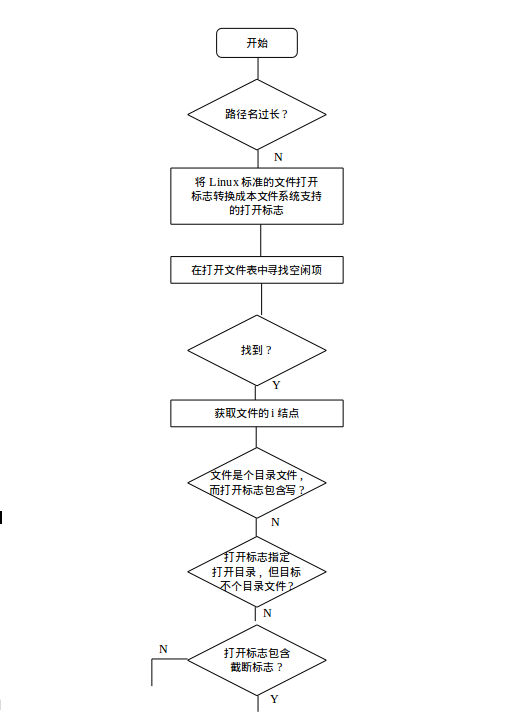
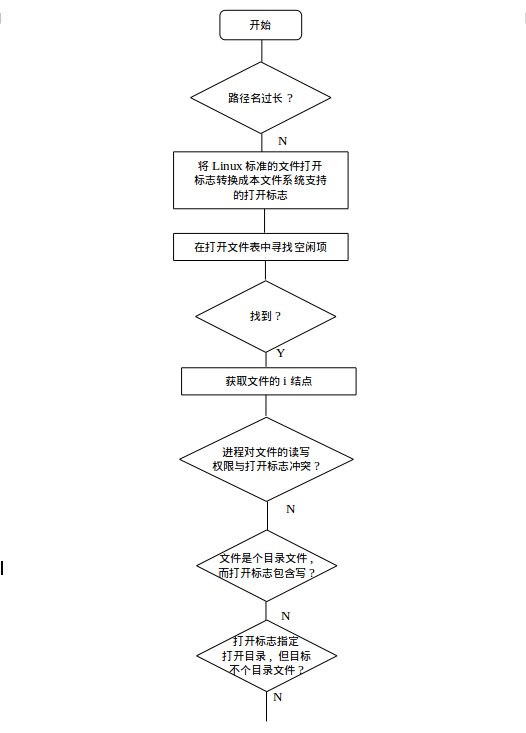
根据到目前为止所作出的修改, 更新文档.
更新的地方主要包括:
	文件名最大长度的值;
	read() 的函数流程;
	open() 的函数流程与流程图;

diff --git a/src/fs_based_on_fuse.tex b/src/fs_based_on_fuse.tex
@@ -549,8 +549,9 @@ mount -t fusectl none /sys/fs/fuse/connections
 
 \begin{verbatim}
 #define UFS_MAGIC           0x7594  /* 文件系统的标识 */
-#define UFS_NAME_LEN        27      /* 文件名的最大长度, 不包括结尾的空字符 */
-#define UFS_PATH_LEN        1024    /* 路径名最大长度, 不包括结尾的空字符 */
+      /* 文件名的最大长度, 不包括结尾的空字符 */
+#define UFS_NAME_LEN        (64 - sizeof(unsigned int) - 1)
+#define UFS_PATH_LEN        1024   /* 路径名最大长度, 不包括结尾的空字符 */
 #define UFS_BLK_SIZE        512     /* 磁盘块大小 */
 #define UFS_OPEN_MAX        64      /* 同时打开文件数最大值 */
 #define UFS_DISK_MAX_SIZE   32      /* 磁盘文件最大值 (MB) */
@@ -2070,7 +2071,7 @@ struct ufs_file ufs_open_files[UFS_OPEN_MAX]; /* 打开文件表 */
     \texttt{-ENAMETOOLONG}: \texttt{path} 长度大于最大路径名长度;
   \item
     \texttt{-EACCES}: 对文件的打开请求不被允许 (例如打开标志指定了
-    \texttt{UFS\_O\_RDWR}, 但文件不可写), 或路径中的某目录 无搜索权限;
+    \texttt{O\_RDWR}, 但文件不可写), 或进程对路径中的某目录无搜索权限;
   \item
     \texttt{-EISDIR}: \texttt{path} 引用的是目录, 而打开标志包含写;
   \item
@@ -2100,15 +2101,19 @@ struct ufs_file ufs_open_files[UFS_OPEN_MAX]; /* 打开文件表 */
   \item
     调用 \texttt{ufs\_path2i(path, inode)}, 获取文件的 i 结点号,
     若函数出错, 原样返回错误值;
+  \item 
+      获取进程对该文件的读写权限, 并与打开标志 \texttt{flag} 作比较,
+      如果互相冲突 (例如进程对文件只可读, 但打开标志包含写), 则返回 
+      \verb'-EACCES';
   \item
-    若 \texttt{flag} 包含写操作 (\texttt{UFS\_O\_WRONLY},
-    \texttt{UFS\_O\_RDWR} 等), 而 \texttt{path} 是一个目录文件, 返回
+    若打开标志 \texttt{flag} 包含写操作 (\texttt{O\_WRONLY},
+    \texttt{O\_RDWR} 等), 而 \texttt{path} 是一个目录文件, 返回
     \texttt{-EISDIR};
   \item
-    若 \texttt{flag} 指定了 \texttt{UFS\_O\_DIR}, 但 \texttt{path}
+    若 \texttt{flag} 指定了 \texttt{O\_DIR}, 但 \texttt{path}
     不是一个目录文件, 返回 \texttt{-ENOTDIR};
   \item
-    若 \texttt{flag} 指定了 \texttt{UFS\_O\_TRUNC}, 则调用
+    若 \texttt{flag} 指定了 \texttt{O\_TRUNC}, 则调用
     \texttt{ufs\_truncatei(inode)} 与 \texttt{ufs\_wr\_inode(inode)},
     若函数出错, 原样返回错误值;
   \item
